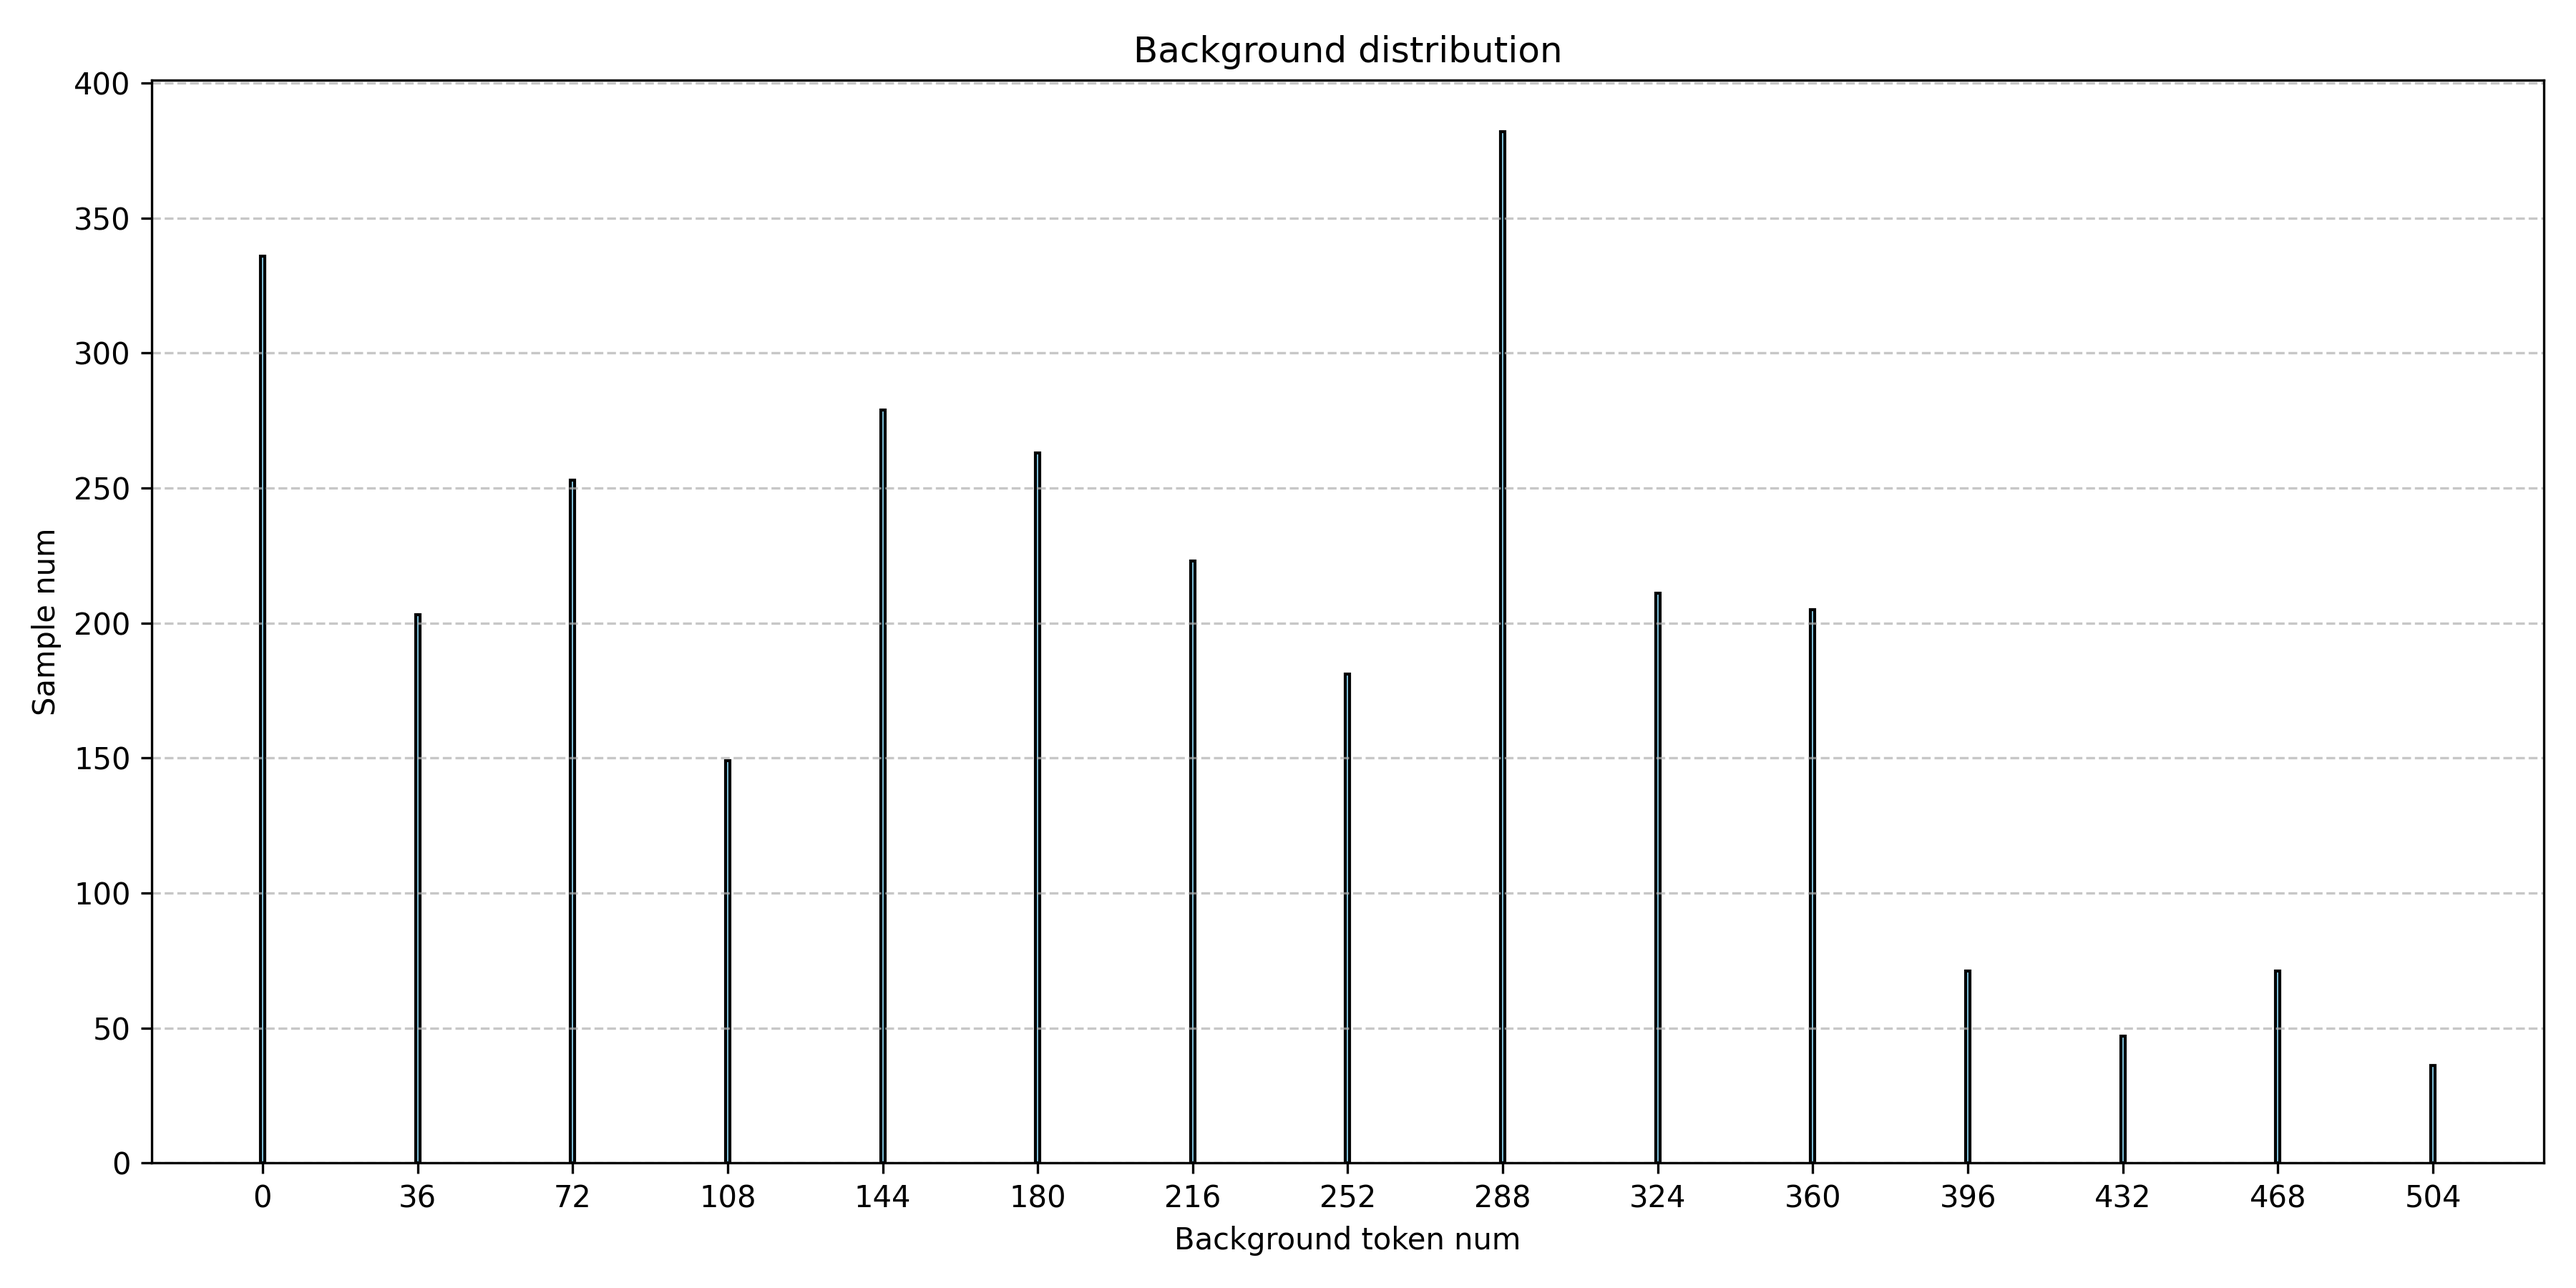
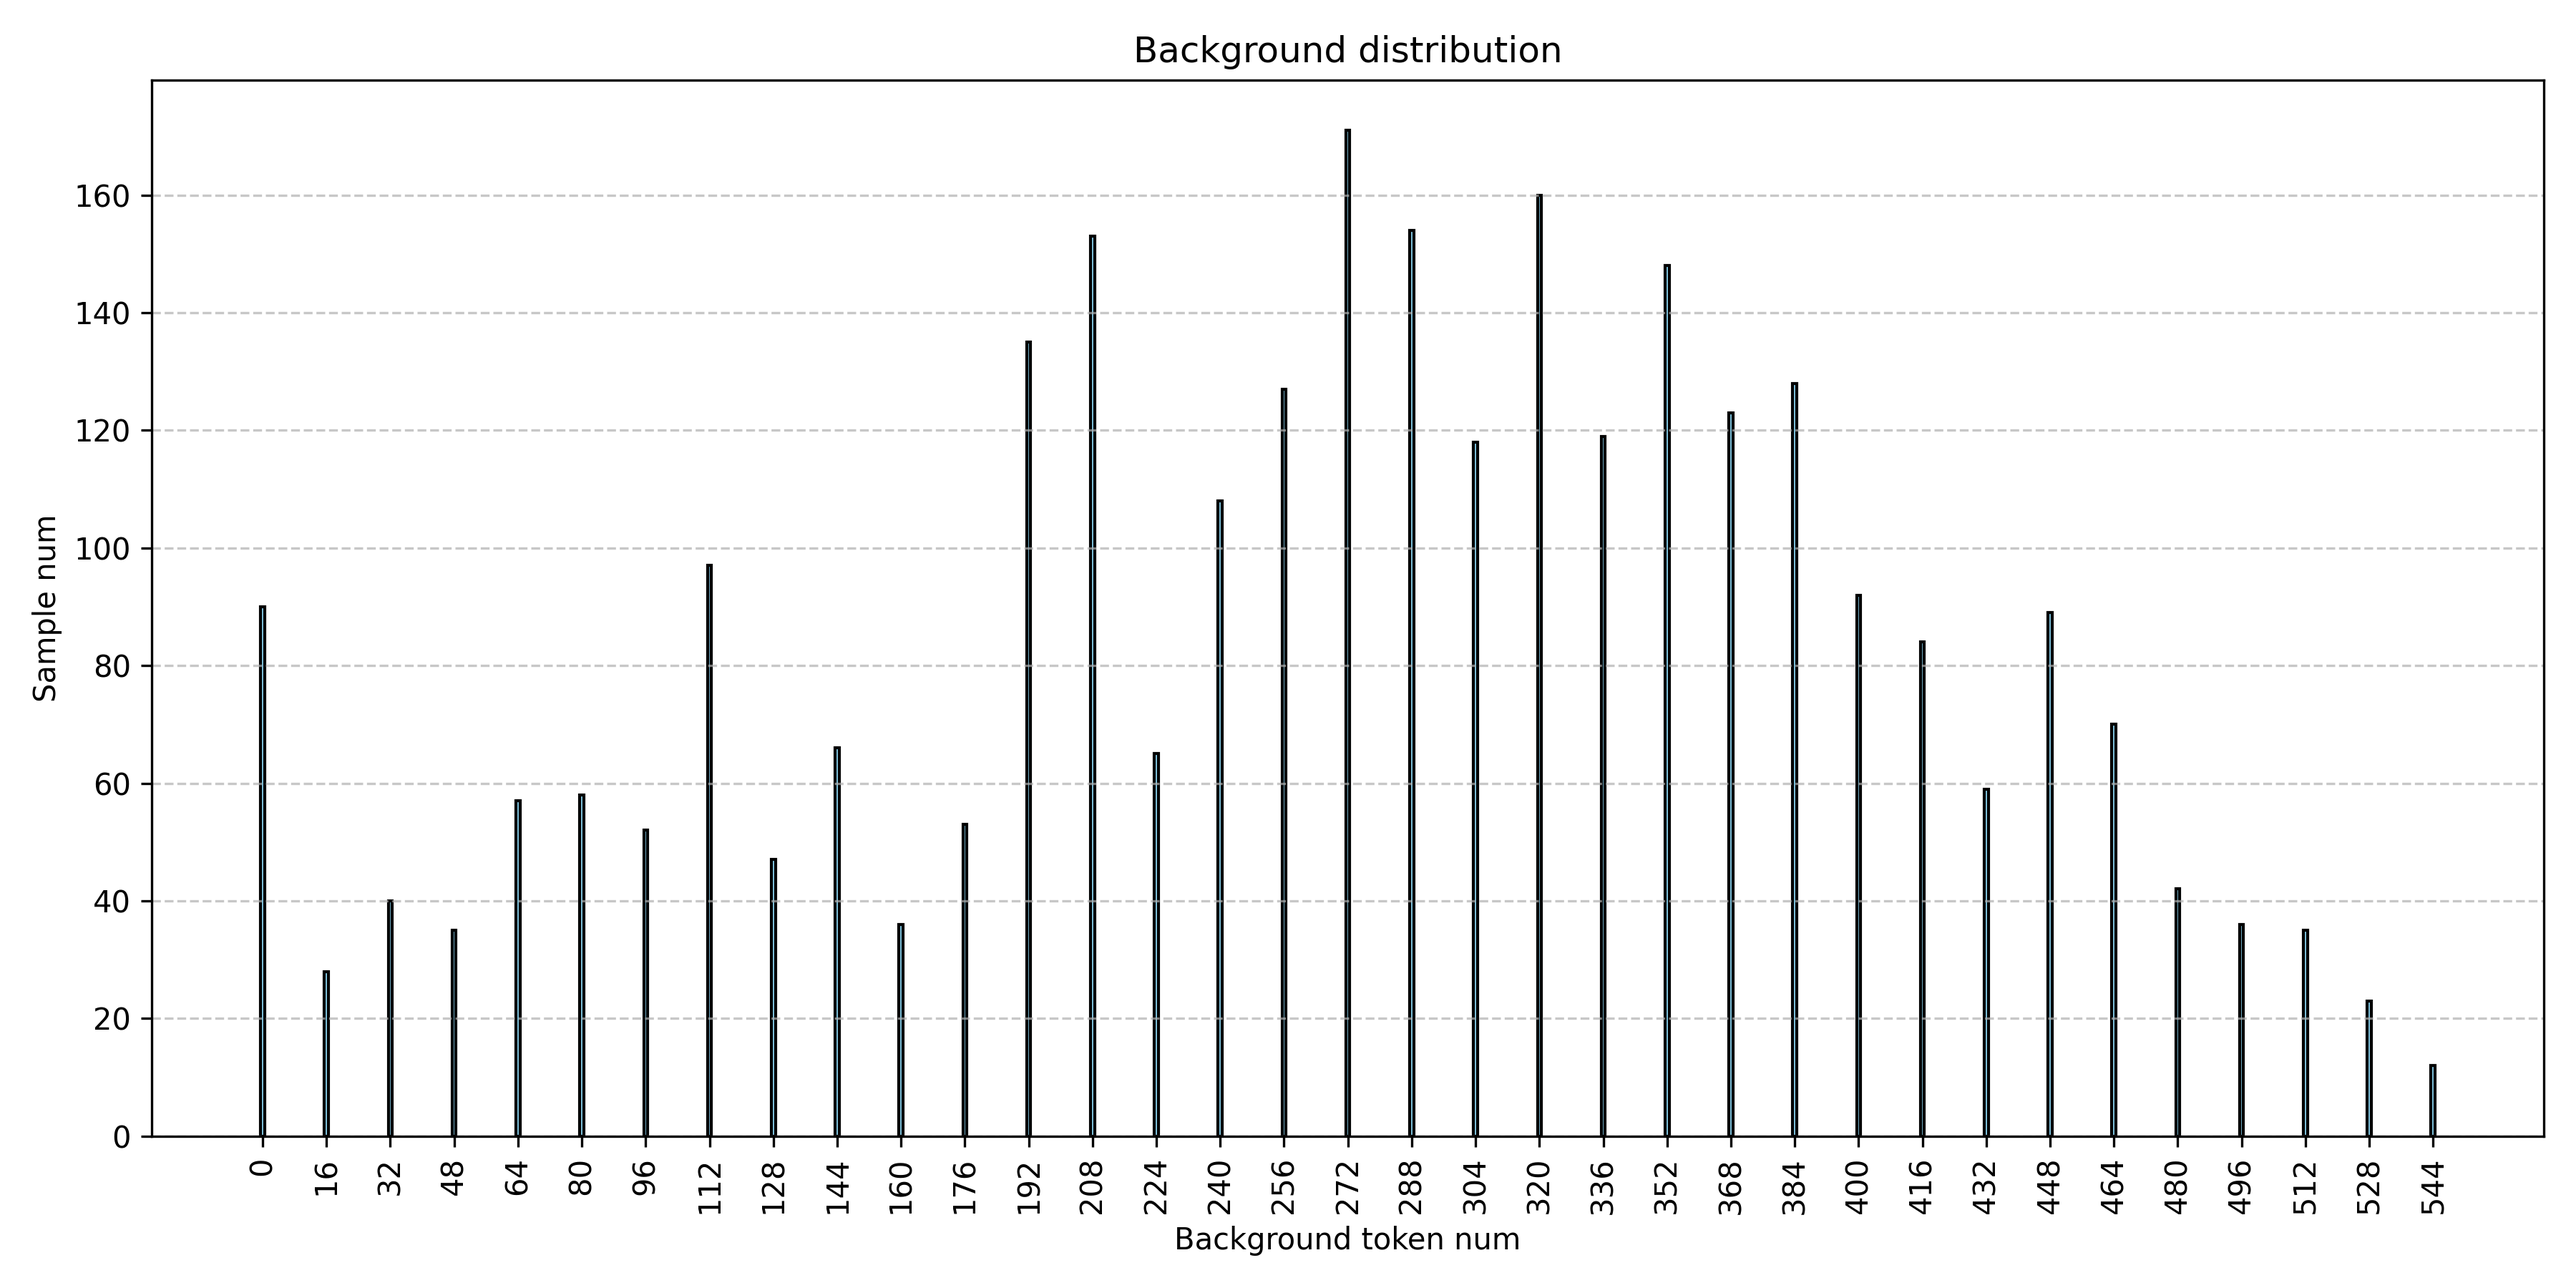
sciencevqa 支持

diff --git a/llava/model/llava_arch.py b/llava/model/llava_arch.py
@@ -30,6 +30,7 @@ import copy
 from transformers import AutoTokenizer
 from .ImageGenerator import BackgroundFeatureCache
 from .CacheStatisticsCollector import CacheStatisticsCollector
+import torch.nn.functional as F
 
 class LlavaMetaModel:
 
@@ -327,6 +328,7 @@ class LlavaMetaForCausalLM(ABC):
                         raise ValueError("bg_flat_calculated cannot be a scalar.")
 
                 query_key_for_search = torch.mean(bg_flat_calculated, dim=1) 
+                query_key_for_search = F.normalize(query_key_for_search, p=2, dim=1) # L2 normalization
 
                 
                 if self.get_model().background_cache:
@@ -355,7 +357,7 @@ class LlavaMetaForCausalLM(ABC):
                         raise ValueError("bg_flat_calculated cannot be a scalar.")
 
                 query_key_for_search = torch.mean(bg_flat_calculated, dim=1) 
-
+                query_key_for_search = F.normalize(query_key_for_search, p=2, dim=1) # L2 normalization
 
                 if self.get_model().background_cache:
                     reused_background_features_final, _ = self.get_model().background_cache.search_feature( # Capture hit status

diff --git a/llava/eval/model_vqa_science.py b/llava/eval/model_vqa_science.py
@@ -114,6 +114,12 @@ def eval_model(args):
                                    "model_id": model_name,
                                    "metadata": {}}) + "\n")
         ans_file.flush()
+
+
+    if args.cache_load_way == "write-only":
+        model.get_model().background_cache.close()
+    if args.cache_load_way == "read-only":  
+        model.get_model().stats_collector.report_stats(args.dataset)    
     ans_file.close()
 
 if __name__ == "__main__":
@@ -130,5 +136,7 @@ if __name__ == "__main__":
     parser.add_argument("--answer-prompter", action="store_true")
     parser.add_argument("--single-pred-prompt", action="store_true")
     parser.add_argument("--image-cache", type=bool, default=True)
+    parser.add_argument("--cache-load-way", type=str, default=None)   # no write-only read-only 
+    parser.add_argument("--dataset", type=str, default="default_dataset")   # no write-only read-only     
     args = parser.parse_args()
     eval_model(args)

diff --git a/llava/model/multimodal_encoder/clip_encoder.py b/llava/model/multimodal_encoder/clip_encoder.py
@@ -70,7 +70,7 @@ class CLIPVisionTransformerWithBackgroundObject(CLIPVisionTransformer):
 
 
         # set window_size  336/14 = 24;   336/168 = 2;  336/112 = 3; 336/84 = 4; 
-        window_size = 84
+        window_size = 56
 
         # 获取嵌入表示
         hidden_states = self.embeddings(pixel_values)
